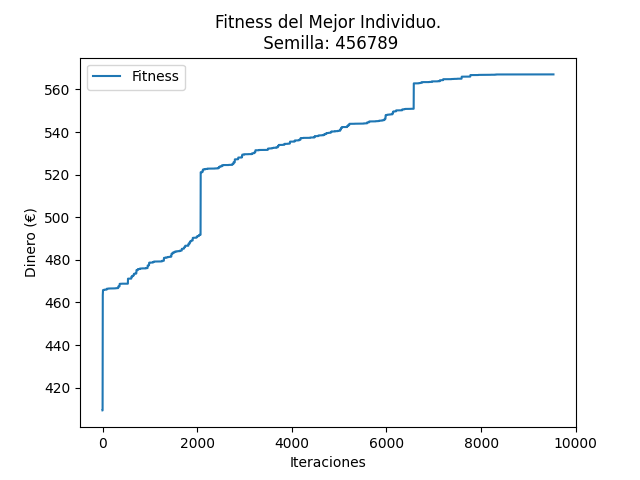
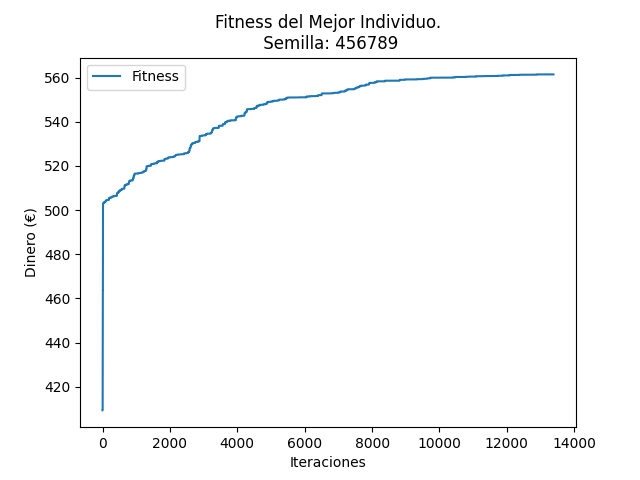
auto-commit:29/04/2023 a las 17:53:44,88

diff --git a/2º Cuatrimestre/[MByHB] Modelos Bioinspirados y Heurísticas de Búsquedas/Prácticas/Practica3_AlgoritmosGeneticos/CHC/Algoritmo_Genetico_CHC.py b/2º Cuatrimestre/[MByHB] Modelos Bioinspirados y Heurísticas de Búsquedas/Prácticas/Practica3_AlgoritmosGeneticos/CHC/Algoritmo_Genetico_CHC.py
@@ -45,6 +45,7 @@ def seleccionar(poblacion, hijos):
     orden = np.argsort(-valores_poblacion_total)
     poblacion_total = poblacion_total[orden]
 
+
     # Eliminar individuos duplicados
     _, unique_indices = np.unique(poblacion_total, axis=0, return_index=True)
     poblacion_total = poblacion_total[unique_indices]
@@ -53,6 +54,50 @@ def seleccionar(poblacion, hijos):
     poblacion_nueva = poblacion_total[:len(poblacion)]
 
     return poblacion_nueva
+
+
+def hayAlgunMiembroMejor(padres, hijos, isRandom):
+    """
+    Comprueba si existe algún valor en hijos que sea mejor que algún valor de padres.
+
+    Args:
+        padres (numpy.ndarray): La primera matriz de valores.
+        hijos (numpy.ndarray): La segunda matriz de valores.
+
+    Returns:
+        bool: True si existe algún valor en hijos que es mayor que algún valor de padres, False en caso contrario.
+    """
+
+    fitness_padres = Utils.fitnessPoblacion(padres, isRandom)[0]
+    fitness_hijos = Utils.fitnessPoblacion(hijos,isRandom)[0]
+    return np.any(fitness_hijos > fitness_padres)
+
+def select_s(padres, hijos, isRandom):
+    """
+    Reemplaza los peores miembros de padres por los mejores miembros de hijos mientras haya algún miembro en hijos mejor que en padres.
+
+    Args:
+        padres (numpy.ndarray): La matriz de padres.
+        hijos (numpy.ndarray): La matriz de hijos.
+
+    Returns:
+        numpy.ndarray: La matriz de padres actualizada.
+    """
+    valores_padres = Utils.fitnessPoblacion(padres, isRandom)[0]
+    valores_hijos = Utils.fitnessPoblacion(hijos, isRandom)[0]
+
+    while np.any(valores_hijos > valores_padres):
+        indices_padres = np.argsort(valores_padres)
+        indices_hijos = np.argsort(valores_hijos)[::-1]
+        for i in range(len(indices_hijos)):
+            if valores_hijos[indices_hijos[i]] > valores_padres[indices_padres[i]]:
+                padres[indices_padres[i]] = hijos[indices_hijos[i]]
+                valores_padres[indices_padres[i]] = valores_hijos[indices_hijos[i]]
+
+    return padres
+
+
+
 
 def diverge(poblacion, hijos):
     # Reemplaza P(t) con M copias del mejor miembro de P(t-1)
@@ -75,11 +120,24 @@ def CHC(semilla, israndom):
     indice_maximo = np.argmax(valores_poblacion)
     indice_minimo = np.argmin(valores_poblacion)
 
+    # Mejor Valor Inicial
     mejor_individuo = poblacion[indice_maximo]
     mejor_valor = valores_poblacion[indice_maximo]
+
+    # Peor Individuo Inicial
+    peor_individuo = poblacion[indice_minimo]
+    peor_valor = valores_poblacion[indice_minimo]
+
+    # Graficas:
+    mejorValorAcumulado = [mejor_valor]
+    historicoPeor = [peor_valor]
+    historicoMejor = [mejor_valor]
+    mejorIndividuoGenAnterior = mejor_individuo.copy()
+    evaluaciones = len(poblacion) # Inicializamos al numero de individuos porque hemos calculado el fitness anteriormente.
+    numero_reinicios = 0
+
     # Mientras no se cumpla la condicion
-    while t < Utils.NUM_ITERACIONES:
-        #print(f"Iteracion: {t}")
+    while t < Utils.NUM_ITERACIONES_CHC:
         t += 1
         # Seleccionar_r
         parejas = poblacion.copy()
@@ -93,30 +151,51 @@ def CHC(semilla, israndom):
             hijos[i + 1] = hijo2
 
         # Evaluar Poblacion
-        valores_poblacion, _, _ = Utils.fitnessPoblacion(hijos, israndom)
+        # valores_poblacion, _, _ = Utils.fitnessPoblacion(hijos, israndom)
+
+        # Seleccionar
+        poblacion = select_s(parejas, hijos, israndom)
+        valores_poblacion, _, _ = Utils.fitnessPoblacion(poblacion, israndom)
         indice_maximo = np.argmax(valores_poblacion)
         indice_minimo = np.argmin(valores_poblacion)
 
         if valores_poblacion[indice_maximo] > mejor_valor:  # Actualizamos el mejor valor de toda la historia
-            mejor_individuo = poblacion[indice_maximo]
-            mejor_valor = valores_poblacion[indice_maximo]
+            mejor_individuo = poblacion[indice_maximo].copy()
+            mejor_valor = valores_poblacion[indice_maximo].copy()
+            historicoPeor.append(peor_valor)
+            # print(f"Maximo valor: {mejor_valor}")
+            # print(f"Minimo valor: {peor_valor}")
             t = 0
+            historicoMejor.append(mejor_valor)
+            # print("Mejora")
+        mejorValorAcumulado.append(mejor_valor)
 
-        # Seleccionar
-        poblacion = seleccionar(poblacion, hijos)
+        # Obtenemos el mejor individuo de la generación
+        mejorIndividuoGenAnterior = poblacion[indice_maximo].copy()
+
+        if peor_valor < valores_poblacion[indice_minimo]:
+            # Obtenemos el peor individuo de la poblacion
+            peor_valor = valores_poblacion[indice_minimo].copy()
+            # historicoPeor.append(peor_valor)
+
         # Si P(t) == P(t-1)
         if np.array_equal(poblacion, hijos):
             d -= 1
-            print("Iguales")
 
         # Si d < 0 -> diverge P(t) y d = 24/4
         if d < 0:
             #diverge(poblacion, hijos)
+            # En el arranque los valores de un cromosoma corresponden al mejor individuo de la generación anterior y el resto serán
+            # aleatorios
             d = 24/4
-            print("Reinicio")
+            poblacion = Utils.inicializar_poblacion(Utils.POBLACION_INICIAL - 1)
+            poblacion[0] = mejorIndividuoGenAnterior.copy()
+            # print(poblacion)
+            numero_reinicios += 1
+            print(f"Reincios: {numero_reinicios}")
 
-    return mejor_valor
+    return mejor_valor, (historicoMejor, historicoPeor), mejorValorAcumulado, mejor_individuo
+
 
 if __name__ == "__main__":
-    print(np.array_equal())
-    print(CHC(123456, israndom=False))
+    Utils.grafica(CHC, israndom=False)

diff --git a/2º Cuatrimestre/[MByHB] Modelos Bioinspirados y Heurísticas de Búsquedas/Prácticas/Practica3_AlgoritmosGeneticos/Utils.py b/2º Cuatrimestre/[MByHB] Modelos Bioinspirados y Heurísticas de Búsquedas/Prácticas/Practica3_AlgoritmosGeneticos/Utils.py
@@ -1,17 +1,28 @@
+import math
+import statistics
+
 import matplotlib.pyplot as plt
 import numpy as np
+import pandas as pd
 
 
 # Constantes
 SEMILLAS = [123456, 654321, 456789]
-POBLACION_INICIAL = 15  # EXP
+POBLACION_INICIAL = 17  # EXP
 PORCENTAJE_MUTACION = 0.01  # EXP
 K = 0.2
-NUM_ITERACIONES = 1000   # EXP
+NUM_ITERACIONES = 500   # EXP
+
 ELITE = 5
 
 # CHC
 ALPHA = 0.01
+NUM_ITERACIONES_CHC = 2000
+
+# Multimodal
+NUMERO_GENERACIONES_CLEARING = 10
+RADIO_CLEARING = 5
+KAPPA = 2
 
 # Problema
 capacidad_bateria = 300  # Capacidad total de la bateria
@@ -29,6 +40,13 @@ r_random = [274, 345, 605, 810, 252, 56, 964, 98, 77, 816, 68, 261, 841, 897, 75
 
 
 # Funciones
+
+def distanciaEuclidea(vector1, vector2):
+    # Calcula la distancia euclidea entre los valores de vector1 y vector2
+    d = math.sqrt(sum((vector1[i] - vector2[i])**2 for i in range(len(vector1))))
+    return d
+
+
 def get_vectores(israndom):
     if israndom:
         precio_venta = precio_venta_random
@@ -140,17 +158,19 @@ def inicializar_poblacion(size):
     return pob
 
 def grafica(funcion, israndom):
-    for semilla in SEMILLAS:
-        _, historico, mejor_valor_acumulado, mejor_individuo = funcion(semilla, israndom)
+    dinero = [0 for i in range(len(SEMILLAS))]
+    for i in range(len(SEMILLAS)):
+        mejor_valor, historico, mejor_valor_acumulado, mejor_individuo = funcion(SEMILLAS[i], israndom)
+        dinero[i] = mejor_valor
         # Convergencia de los individuos
         fig, ax = plt.subplots()
         ax.plot([i for i in range(len(historico[0]))], [i/100 for i in historico[0]], label="Fitness Mejor Individuo")
         ax.plot([i for i in range(len(historico[1]))], [i/100 for i in historico[1]], label="Fitness Peor Individuo")
         plt.legend()
-        plt.xlabel("Veces que mejora o empeora")
+        plt.xlabel("Veces que mejora")
         plt.ylabel("Dinero (€)")
-        plt.title(f"Convergencia del Mejor Individuo y el Peor.\n Semilla: {semilla}")
-        plt.savefig(f"./Graficas/Convergencia/{semilla}_{'Datos_Aleatorios' if israndom else 'Datos_Reales'}.png")
+        plt.title(f"Convergencia del Mejor Individuo y el Peor.\n Semilla: {SEMILLAS[i]}")
+        plt.savefig(f"./Graficas/Convergencia/{SEMILLAS[i]}_{'Datos_Aleatorios' if israndom else 'Datos_Reales'}.png")
         plt.show()
 
         # Fitness
@@ -159,8 +179,8 @@ def grafica(funcion, israndom):
         plt.legend()
         plt.xlabel("Iteraciones")
         plt.ylabel("Dinero (€)")
-        plt.title(f"Fitness del Mejor Individuo.\n Semilla: {semilla}")
-        plt.savefig(f"./Graficas/Fitness/{semilla}_{'Datos_Aleatorios' if israndom else 'Datos_Reales'}.png")
+        plt.title(f"Fitness del Mejor Individuo.\n Semilla: {SEMILLAS[i]}")
+        plt.savefig(f"./Graficas/Fitness/{SEMILLAS[i]}_{'Datos_Aleatorios' if israndom else 'Datos_Reales'}.png")
         plt.show()
 
         # Simulación
@@ -168,7 +188,7 @@ def grafica(funcion, israndom):
         # Dinero acumulado en cada hora
 
         fig, ax = plt.subplots()
-        plt.title(f"Simulación del Mejor Individuo.\n Semilla: {semilla}")
+        plt.title(f"Simulación del Mejor Individuo.\n Semilla: {SEMILLAS[i]}")
         ax.set_xticks(range(0, 24, 1))
         ln0 = ax.plot([j for j in range(24)], [cent / 100 for cent in dinero_acumulado],
                       label="Dinero Acumulado")
@@ -185,5 +205,23 @@ def grafica(funcion, israndom):
         leg = ln0 + ln1
         labs = [legend.get_label() for legend in leg]
         plt.legend(leg, labs, loc='upper center', bbox_to_anchor=(0.5, 1.0), ncol=3)
-        plt.savefig(f"./Graficas/Simulacion/{semilla}_{'Datos_Aleatorios' if israndom else 'Datos_Reales'}.png")
+        plt.savefig(f"./Graficas/Simulacion/{SEMILLAS[i]}_{'Datos_Aleatorios' if israndom else 'Datos_Reales'}.png")
         plt.show()
+
+    data = {
+        # 'Media Evaluaciones': [statistics.mean(evaluaciones[:])],
+        # 'Mejor Evaluación': [min(evaluaciones[:])],
+        # 'Desviación Evaluaciones': [statistics.stdev(evaluaciones[:])],
+        'Media Dinero (€)': [round(statistics.mean(dinero[:]) / 100, 2)],
+        'Mejor Dinero (€)': [round(max(dinero[:]) / 100, 2)],
+        'Desviación Dinero (€)': [round(statistics.stdev(dinero[:]) / 100, 2)]
+    }
+
+    # Opciones de Pandas para mostrar la tabla completa en la consola
+    pd.set_option('display.max_rows', None)
+    pd.set_option('display.max_columns', None)
+    pd.set_option('display.width', None)
+    pd.set_option('display.max_colwidth', None)
+
+    # Mostramos los datos obtenidos
+    print(pd.DataFrame(data))

diff --git a/2º Cuatrimestre/[MByHB] Modelos Bioinspirados y Heurísticas de Búsquedas/Prácticas/Practica3_AlgoritmosGeneticos/Multimodal/Algoritmo_Genetico_Multimodal.py b/2º Cuatrimestre/[MByHB] Modelos Bioinspirados y Heurísticas de Búsquedas/Prácticas/Practica3_AlgoritmosGeneticos/Multimodal/Algoritmo_Genetico_Multimodal.py
@@ -1,13 +1,5 @@
-import matplotlib.pyplot as plt
 import numpy as np
-
 import Utils
-
-'''
-Función de mutación del algoritmo genético.
-
-'''
-
 
 def mutacion(individuo):
     ind_mutado = individuo.copy()
@@ -62,7 +54,7 @@ def elitismo(poblacion, k, isRandom):
     return poblacion[top_5_indices].copy()
 
 
-def algoritmo_genetico_generacional(semilla, isRandom):
+def algoritmo_genetico_generacional_multimodal(semilla, isRandom):
     np.random.seed(semilla)
     t = 0
     # Inicializar P(t)
@@ -83,12 +75,15 @@ def algoritmo_genetico_generacional(semilla, isRandom):
     peor_valor = valores_poblacion[indice_minimo]
     historicoPeor = [peor_valor]
 
+    # Multimodal
+    P = 0   # Numero de generaciones que han transcurrido.
     while t < Utils.NUM_ITERACIONES:
         t = t + 1
         # Seleccionamos la élite de la población:
         elite = elitismo(poblacion, Utils.ELITE, isRandom)
 
         # Seleccionar los índices de los padres (K=3)
+        
         candidatos = np.array([torneo(valores_poblacion, int(Utils.K * Utils.POBLACION_INICIAL)) for _ in
                                range(Utils.POBLACION_INICIAL)])
 
@@ -104,8 +99,12 @@ def algoritmo_genetico_generacional(semilla, isRandom):
         # Añado la élite a la siguiente generación:
         hijos[0:Utils.ELITE, :] = elite
         for i in range(Utils.ELITE, Utils.POBLACION_INICIAL, 2):
-            h1, h2 = cruce(poblacion[padres[i-Utils.ELITE][0].copy()],
-                           poblacion[padres[Utils.ELITE][1].copy()])
+            if np.random.random_integers(0, 100) < 80: # Probabilidad de cruce del 80%
+                h1, h2 = cruce(poblacion[padres[i-Utils.ELITE][0].copy()],
+                               poblacion[padres[Utils.ELITE][1].copy()])
+            else:   # Si no, se copian como hijos.
+                h1 = poblacion[padres[i-Utils.ELITE][0].copy()]
+                h2 = poblacion[padres[Utils.ELITE][0].copy()]
             hijos[i] = h1
             hijos[i + 1] = h2
 
@@ -136,7 +135,7 @@ def algoritmo_genetico_generacional(semilla, isRandom):
 
 
 if __name__ == "__main__":
-    Utils.grafica(algoritmo_genetico_generacional, israndom=False)
+    Utils.grafica(algoritmo_genetico_generacional_multimodal, israndom=False)
 
 
 
